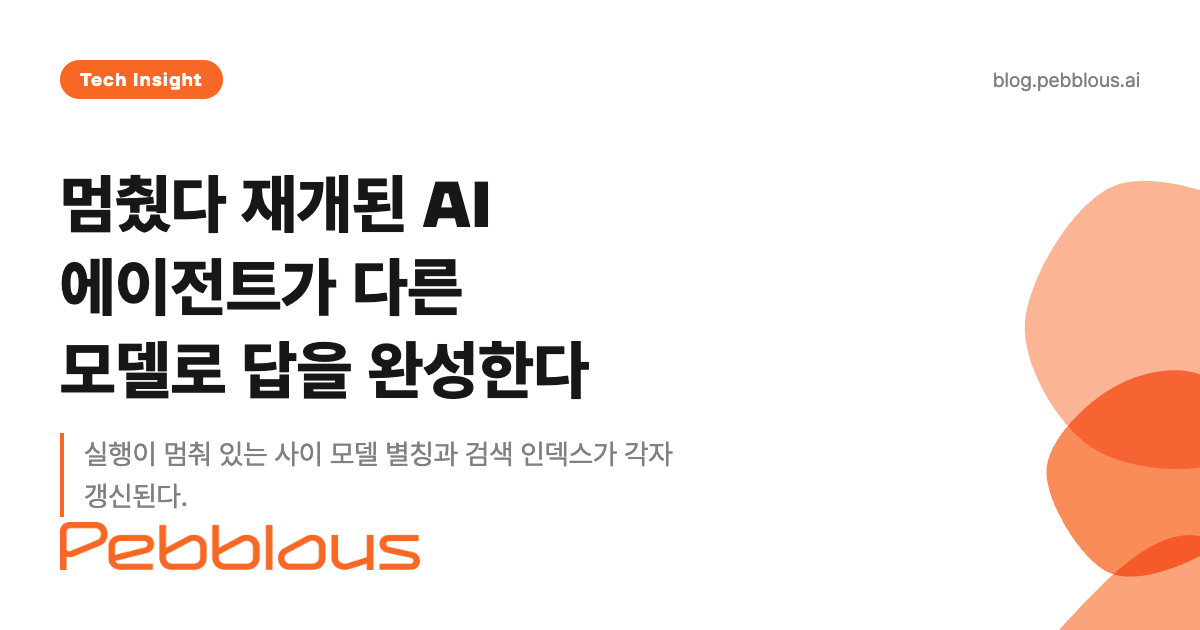
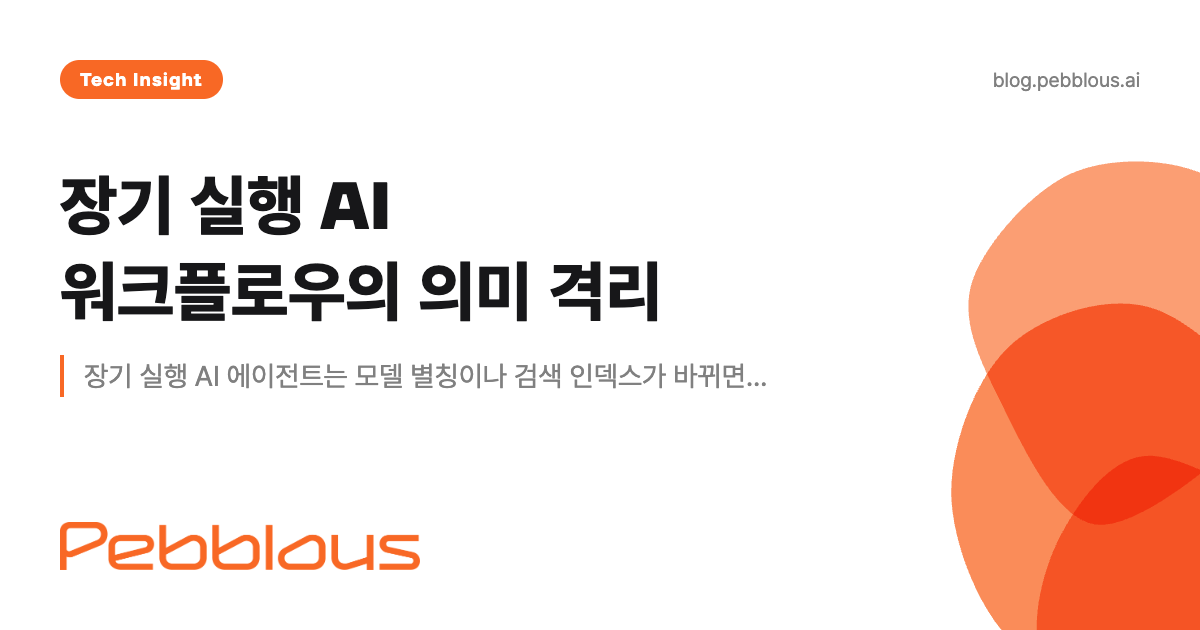
chore(titles): 제목·메타 일괄 교정 1건/5필드 (제목 검토 콘솔)\n\n- agent-semantic-isolation-ko:\n    제목: 멈췄다 재개된 AI 에이전트가 다른 모델로 답을 완성한다 → 장기 실행 AI 워크플로우의 의미 격리\n    부제목: 데이터베이스가 40년 전 트랜잭션 격리로 풀었던 문제를 AI 워크플로우가 다시 만났다 → 멈춤과 재개 사이 달라진 모델·검색 인덱스가 만드는 조용한 일관성 오류\n    SEO 제목: AI 에이전트 재현성 — 실행 중 바뀌는 모델·인덱스와 의미 격리 | 페블러스

diff --git a/blog/agent-semantic-isolation/ko/index.html b/blog/agent-semantic-isolation/ko/index.html
@@ -10,8 +10,9 @@
     <meta name="copyright" content="© 2026 Pebblous. All rights reserved.">
     <meta name="robots" content="index, follow">
 
-    <title>AI 에이전트 재현성 — 실행 중 바뀌는 모델·인덱스와 의미 격리 | 페블러스</title>
-    <meta name="description" content="에이전트 실행이 멈췄다 재개되는 사이 모델 별칭과 검색 인덱스가 갱신되면서, 호출은 모두 성공해도 결과는 앞뒤가 맞지 않게 된다. arXiv 논문은 이를 네 가지 이상 현상으로 정리하고 LangGraph 저장소 100개 중 7.4%가 방어 없이 리소스를 참조한다고 보고했다.">
+    <title>장기 실행 AI 에이전트 재현성 — 장기 실행 워크플로우의 의미 격리 | 페블러스</title>
+    <meta name="og-image-title" content="장기 실행 AI 워크플로우의 의미 격리">
+    <meta name="description" content="장기 실행 AI 에이전트는 모델 별칭이나 검색 인덱스가 바뀌면, 모든 호출이 성공해도 결과의 의미적 일관성을 잃을 수 있다. 논문은 이를 네 가지 의미 격리 문제로 정리하고, 조사한 LangGraph 저장소의 7.4%에서 관련 위험을 확인했다.">
     <meta name="keywords" content="AI 에이전트 재현성, 의미 격리, semantic isolation, 에이전트 워크플로우 버전 드리프트, 데이터 버저닝, 데이터 계보, 트랜잭션 격리 수준, LangGraph 체크포인트, 불변 바인딩, AI 에이전트 감사">
     <link rel="canonical" href="https://blog.pebblous.ai/blog/agent-semantic-isolation/ko/">
 
@@ -27,15 +28,15 @@
     <meta name="citation_language" content="ko">
 
     <meta property="og:type" content="article">
-    <meta property="og:title" content="멈췄다 재개된 AI 에이전트가 다른 모델로 답을 완성한다">
-    <meta property="og:description" content="실행이 멈춰 있는 사이 모델 별칭과 검색 인덱스가 각자 갱신된다. 호출은 전부 성공하는데 결과만 앞뒤가 맞지 않는다. 데이터베이스가 40년 전 트랜잭션 격리로 풀었던 문제가 의미 계층에서 되돌아왔다.">
+    <meta property="og:title" content="장기 실행 AI 워크플로우의 의미 격리">
+    <meta property="og:description" content="장기 실행 AI 에이전트는 모델 별칭이나 검색 인덱스가 바뀌면, 모든 호출이 성공해도 결과의 의미적 일관성을 잃을 수 있다. 논문은 이를 네 가지 의미 격리 문제로 정리하고, 조사한 LangGraph 저장소의 7.4%에서 관련 위험을 확인했다.">
     <meta property="og:url" content="https://blog.pebblous.ai/blog/agent-semantic-isolation/ko/">
     <meta property="og:image" content="https://blog.pebblous.ai/blog/agent-semantic-isolation/ko/image/index.png">
     <meta property="og:locale" content="ko_KR">
 
     <meta name="twitter:card" content="summary_large_image">
-    <meta name="twitter:title" content="멈췄다 재개된 AI 에이전트가 다른 모델로 답을 완성한다">
-    <meta name="twitter:description" content="실행이 멈춰 있는 사이 모델 별칭과 검색 인덱스가 각자 갱신된다. 호출은 전부 성공하는데 결과만 앞뒤가 맞지 않는다. 데이터베이스가 40년 전 트랜잭션 격리로 풀었던 문제가 의미 계층에서 되돌아왔다.">
+    <meta name="twitter:title" content="장기 실행 AI 워크플로우의 의미 격리">
+    <meta name="twitter:description" content="장기 실행 AI 에이전트는 모델 별칭이나 검색 인덱스가 바뀌면, 모든 호출이 성공해도 결과의 의미적 일관성을 잃을 수 있다. 논문은 이를 네 가지 의미 격리 문제로 정리하고, 조사한 LangGraph 저장소의 7.4%에서 관련 위험을 확인했다.">
     <meta name="twitter:image" content="https://blog.pebblous.ai/blog/agent-semantic-isolation/ko/image/index.png">
     <meta name="twitter:image:alt" content="워크플로우 실행이 멈춰 있는 동안 검색 인덱스와 모델 별칭이 갱신되는 구조를 나타낸 타임라인 도식">
     <meta name="twitter:site" content="@pebblous_ai">
@@ -538,9 +539,9 @@
               },
               "recordedAt": "2026-08-08T19:53:01.500Z"
             },
-            mainTitle: "멈췄다 재개된 AI 에이전트가 다른 모델로 답을 완성한다",
-            subtitle: "데이터베이스가 40년 전 트랜잭션 격리로 풀었던 문제를 AI 워크플로우가 다시 만났다",
-            pageTitle: "AI 에이전트 재현성 — 실행 중 바뀌는 모델·인덱스와 의미 격리 | 페블러스",
+            mainTitle: "장기 실행 AI 워크플로우의 의미 격리",
+            subtitle: "멈춤과 재개 사이 달라진 모델·검색 인덱스가 만드는 조용한 일관성 오류",
+            pageTitle: "장기 실행 AI 에이전트 재현성 — 장기 실행 워크플로우의 의미 격리 | 페블러스",
             category: "tech",
             publishDate: "2026-08-09",
             publisher: "(주)페블러스 데이터 커뮤니케이션팀",
